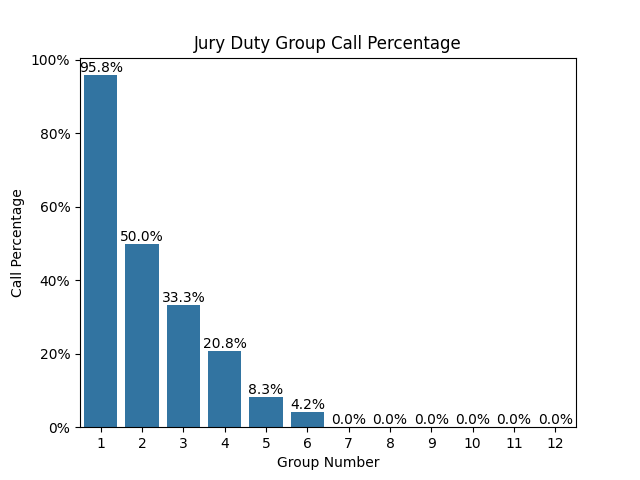
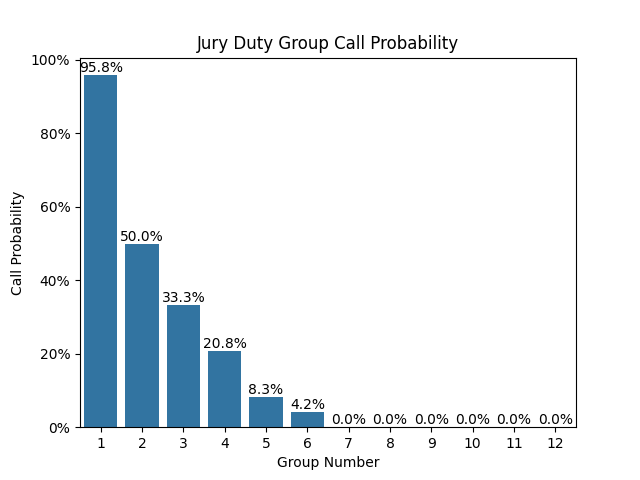
Add to jury duty post

Changed region(s): [[0.2812, 0.0625, 0.7188, 0.125], [0.0, 0.4062, 0.0625, 0.625]]

diff --git a/projects/jury-duty/jury-duty-group-selection.html b/projects/jury-duty/jury-duty-group-selection.html
@@ -41,25 +41,32 @@
 
 
     <h1>Jury Duty Selection: How likely are you to get called?</h1>
-    <p><i>2024-03-19</i></p>
-      <p>A couple months ago I received a jury summons, the third year in a row. Each time it happens, I feel a slight sense of dread due to all the unknowns. Will I have to go in? I won't know until calling in the night before. If I do get called in, will I have to be questioned or just get released? What if I get assigned to a case?!</p>
+    <p><i>2024-03-20</i></p>
+      <p>A couple months ago I received a jury summons, the third year in a row. Each time it happens, I feel a slight sense of dread due to all the unknowns. Will I have to go in? I won't know until calling in the night before. I was assigned to Group 5, which I thought was less likely to be called, but I really wasn't sure how likely. I set about collecting some data to determine my probability of getting called in in the future.</p>
 
-      <p>I live in Fulton County, Georgia, and jury duty summonses are group-based. The night before a given day that you are summmoned, you call in to find out if your jury duty group needs to show up the next day. It seemed to me that higher group numbers are less likely to be actually called in, and this lead me to want to collect some data to determine how likely each group is to get called in.</p>
+      <p>Where I live, jury duty summonses are group-based. The night before a given day that you are summmoned, you call in to find out if your jury duty group needs to show up the next day.</p>
 
       <h2>Setting up the data</h2>
-        <p>The <a href="https://github.com/bbgatch/bbgatch.github.io/blob/main/projects/jury-duty/jury-duty.csv">data</a> is set up by date and group summoned and records whether or not the summoned group is actually called to come in person.</p>
+        <p>I'm a big fan of <a href="https://vita.had.co.nz/papers/tidy-data.pdf">Tidy Data principles</a>, but even after using tidy data principles for years, it's still natural for the mind to gravitate towards a structure that is easier to read, but nonetheless messy.</p>
+
+        <p>Below is the initial data structure I started with. It quickly became apparent that a tidier format would be easier to work with, and I didn't really need to record notes and days when no groups were called.</p>
+        <img src="images/non-tidy-data.png">
+
+
+        <p>After converting to a tidier format, the <a href="https://github.com/bbgatch/bbgatch.github.io/blob/main/projects/jury-duty/jury-duty.csv">data</a> looks like this. There is a record for each day that each group was summoned and a flag that records whether or not the summoned group is actually called to come in person.</p>
         <img src="images/jury-duty-data.png">
 
-        <p>I've recorded most days of Fulton County jury duty group calls so far in 2024. The missing days are either weekends, holidays, weekdays where no groups are called, days where it's not clear which groups were summoned but not called, or a handful of days that I missed recording due to vacation.</p>
+        <p>I've recorded most days that jury duty groups were summoned so far in 2024. The missing dates are weekends, holidays, weekdays where no groups are called, days where it's not clear which groups were summoned but not called, days where the jury services' phone line was down to due IT issues, or (to be honest) days that I missed recording due to vacation 🏖.</p>
 
       <h2>How likely is each group to be called in?</h2>
+        <p>It turns out my intuition was correct that Group 5 was less likely to be called in!</p>
+        <img src="images/group-probability-table.png">
+        <img src="images/group-probability-plot.png">
         <a href="https://github.com/bbgatch/bbgatch.github.io/blob/main/projects/jury-duty/jury-duty.py">
           <img src="images/call-probability-code.png">
         </a>
-        <img src="images/group-probability-table.png">
-        <img src="images/group-probability-plot.png">
-
-      <p><b>This is still a work in progress.</b> I plan to continue to collect this data throughout the year and will see what else I can do with the data.</p>
+      
+      <p><b>🚧 This is still a work in progress. 🚧</b> I plan to continue to collect this data throughout the year and will see what else I can do with it.</p>
 
     <!-- Footer --------------------------------------------------------------->
     <footer>

diff --git a/projects/jury-duty/jury-duty.py b/projects/jury-duty/jury-duty.py
@@ -6,12 +6,10 @@ import matplotlib.pyplot as plt
 sql = """
     select
         group_num
-        -- ,datepart('dayofweek', date) as dow
-        -- ,dayname(date) as day
         ,sum(called) as days_called
         ,count(called) as days_summoned
-        -- ,sum(called) / count(called) as call_pct
-        ,cast(round((sum(called) / count(called)) * 100, 2) as string) || '%' as call_pct_str
+        ,sum(called) / count(called) as call_probability
+        ,cast(round((sum(called) / count(called)) * 100, 2) as string) || '%' as call_probability_str
 
     from read_csv('jury-duty.csv')
     group by 1
@@ -21,14 +19,11 @@ sql = """
 duckdb.sql(sql)
 df = duckdb.sql(sql).df()
 
-# Plot group call percentage
+# Plot group call probability
 fig, ax = plt.subplots()
-ax = sns.barplot(df, x="group_num", y="call_pct")
+ax = sns.barplot(df, x="group_num", y="call_probability")
 ax.bar_label(ax.containers[0], fmt=lambda x: f"{x * 100:.1f}%")
-ax.set(xlabel="Group Number", ylabel="Call Percentage", title="Jury Duty Group Call Percentage")
+ax.set(xlabel="Group Number", ylabel="Call Probability", title="Jury Duty Group Call Probability")
 ax.yaxis.set_major_formatter(mpl.ticker.PercentFormatter(xmax=1, decimals=0))
 plt.savefig('images/group-probability-plot.png')
-
-min_date = duckdb.sql("select min(date) from df").fetchone()[0].strftime('%Y-%m-%d')
-max_date = duckdb.sql("select max(date) from df").fetchone()[0].strftime('%Y-%m-%d')
 
